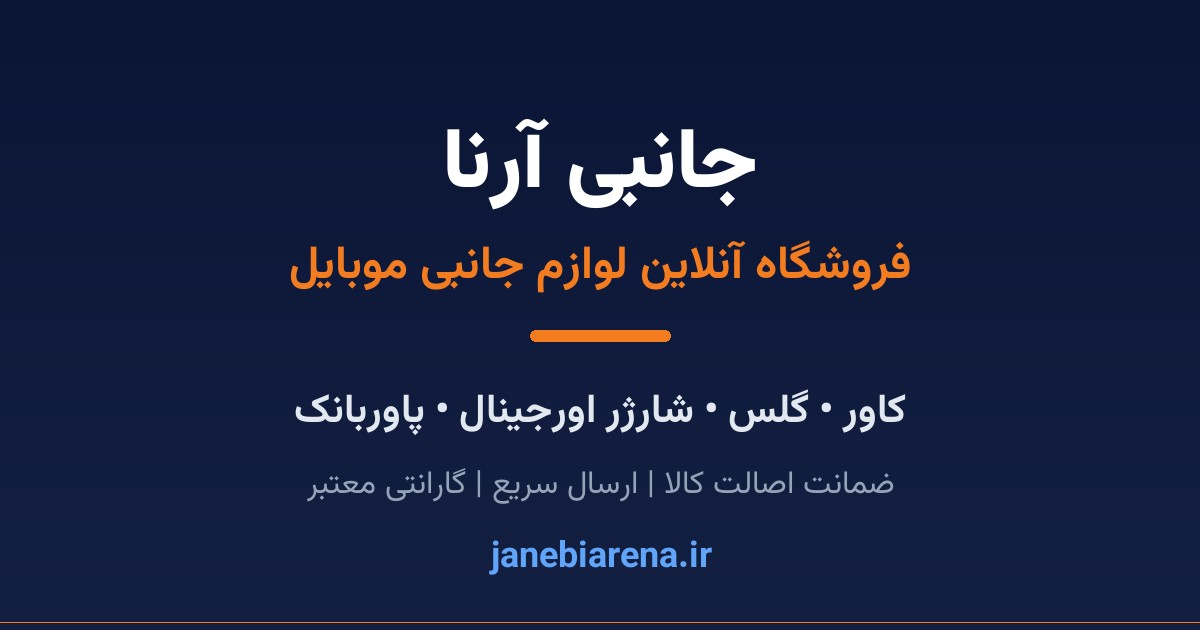
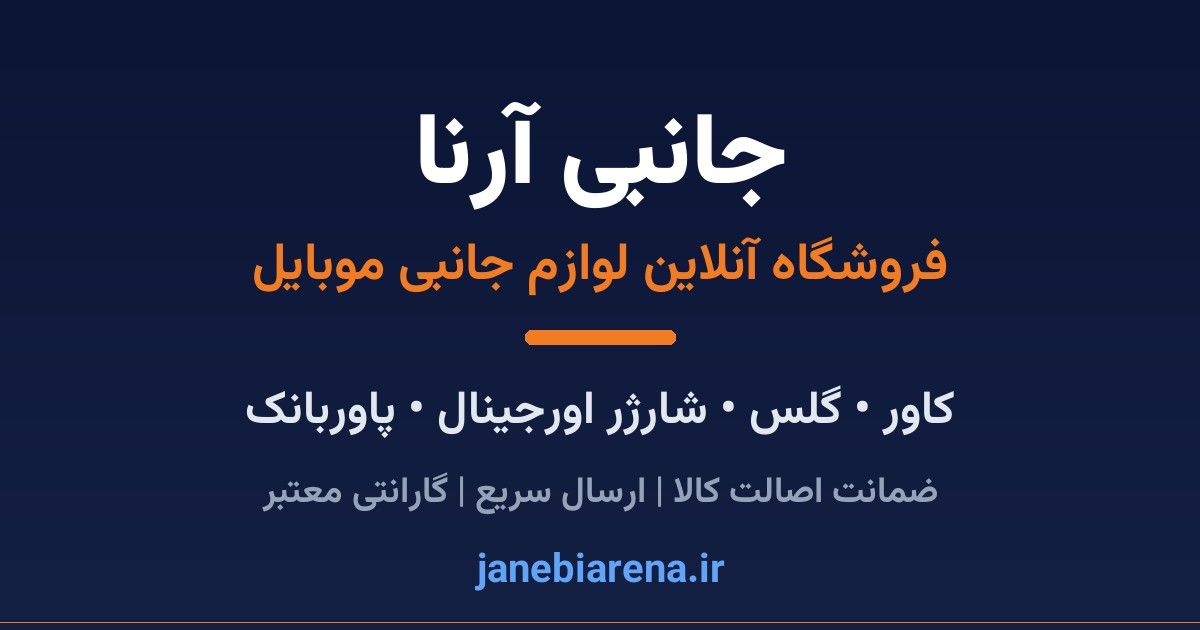
style(og): larger bold typography on OG images (bigger headline, bold secondary lines)

diff --git a/scripts/regen-og-images.py b/scripts/regen-og-images.py
@@ -61,23 +61,23 @@ def gradient_bg(c1, c2, accent_bottom=None):
 # ---------- NOVIN KHODRO (titanium dark + red accent, matches site theme #0B1220) ----------
 img = gradient_bg((11, 18, 32), (24, 33, 54), accent_bottom=[(220, 38, 38)])
 d = ImageDraw.Draw(img)
-center(d, 90, fa("نوین خودرو | خرید از شما، اقساط از ما"), font(T_BOLD, 40), (148, 163, 184))
-center(d, 180, fa("هم امروز بخر، اقساط از دیماه"), font(T_BLACK, 72), (255, 255, 255))
+center(d, 55, fa("نوین خودرو | خرید از شما، اقساط از ما"), font(T_BOLD, 46), (148, 163, 184))
+center(d, 150, fa("هم امروز بخر، اقساط از دیماه"), font(T_BLACK, 88), (255, 255, 255))
 # red underline accent
-d.rounded_rectangle([(W-160)/2, 300, (W+160)/2, 312], radius=6, fill=(220, 38, 38))
-center(d, 350, fa("اقساط ۶ تا ۲۴ ماهه • کارشناسی ۱۰۰٪ تخصصی"), font(T_BOLD, 44), (226, 232, 240))
-center(d, 440, fa("خرید نقد و اقساطی | فروش خودروی شما | مشاوره تخصصی"), font(T_REG, 32), (148, 163, 184))
-center(d, 510, fa("۰۲۱ - ۶۶۱۲۰۳۳۲ • تهران"), font(T_BOLD, 34), (96, 165, 250))
+d.rounded_rectangle([(W-170)/2, 290, (W+170)/2, 304], radius=7, fill=(220, 38, 38))
+center(d, 335, fa("اقساط ۶ تا ۲۴ ماهه • کارشناسی ۱۰۰٪ تخصصی"), font(T_BOLD, 52), (226, 232, 240))
+center(d, 430, fa("خرید نقد و اقساطی | فروش خودروی شما | مشاوره تخصصی"), font(T_BOLD, 36), (148, 163, 184))
+center(d, 515, fa("۰۲۱ - ۶۶۱۲۰۳۳۲ • تهران"), font(T_BOLD, 40), (96, 165, 250))
 img.save("/tmp/og-novin.jpg", quality=90)
 
 # ---------- JANEBI ARENA (brand #F47C20 orange on deep navy #0B1536) ----------
 img = gradient_bg((11, 21, 54), (20, 32, 66), accent_bottom=[(244, 124, 32)])
 d = ImageDraw.Draw(img)
-center(d, 100, fa("جانبی آرنا"), font(T_BLACK, 84), (255, 255, 255))
-center(d, 230, fa("فروشگاه آنلاین لوازم جانبی موبایل"), font(T_BOLD, 46), (244, 124, 32))
-d.rounded_rectangle([(W-140)/2, 330, (W+140)/2, 341], radius=5, fill=(244, 124, 32))
-center(d, 380, fa("کاور • گلس • شارژر اورجینال • پاوربانک"), font(T_BOLD, 40), (226, 232, 240))
-center(d, 460, fa("ضمانت اصالت کالا | ارسال سریع | گارانتی معتبر"), font(T_REG, 32), (148, 163, 184))
-center(d, 530, fa("janebiarena.ir"), font(T_BOLD, 36), (96, 165, 250))
+center(d, 80, fa("جانبی آرنا"), font(T_BLACK, 100), (255, 255, 255))
+center(d, 225, fa("فروشگاه آنلاین لوازم جانبی موبایل"), font(T_BOLD, 52), (244, 124, 32))
+d.rounded_rectangle([(W-150)/2, 330, (W+150)/2, 344], radius=6, fill=(244, 124, 32))
+center(d, 375, fa("کاور • گلس • شارژر اورجینال • پاوربانک"), font(T_BOLD, 46), (226, 232, 240))
+center(d, 465, fa("ضمانت اصالت کالا | ارسال سریع | گارانتی معتبر"), font(T_BOLD, 36), (148, 163, 184))
+center(d, 540, fa("janebiarena.ir"), font(T_BOLD, 40), (96, 165, 250))
 img.save("/tmp/og-janebi.jpg", quality=90)
 print("OK: /tmp/og-novin.jpg /tmp/og-janebi.jpg")
